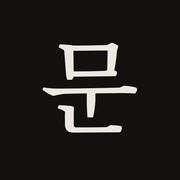
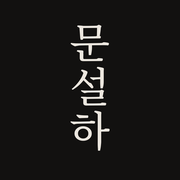
홈 화면 아이콘을 '문설하' 세로쓰기(시안 2)로, 프로필 사진 크게 보기에 '2026년 11월 촬영' 표시

Changed region(s): [[0.2222, 0.1389, 0.7778, 0.8333]]

diff --git a/index.html b/index.html
@@ -8,10 +8,10 @@
 <!-- 공개 범위를 정하기 전까지 검색엔진 노출 막음 (공개하려면 이 줄 삭제) -->
 <meta name="robots" content="noindex">
 <meta name="theme-color" content="#121110">
-<link rel="icon" href="assets/icon/icon-192.png" type="image/png" sizes="192x192">
-<link rel="icon" href="favicon.ico" sizes="16x16 32x32 48x48">
-<link rel="icon" href="assets/icon/icon-32.png" type="image/png" sizes="32x32">
-<link rel="apple-touch-icon" href="apple-touch-icon.png">
+<link rel="icon" href="assets/icon/icon-192.png?v=f70898a50d" type="image/png" sizes="192x192">
+<link rel="icon" href="favicon.ico?v=0f9e82bda3" sizes="16x16 32x32 48x48">
+<link rel="icon" href="assets/icon/icon-32.png?v=56a2a3adc0" type="image/png" sizes="32x32">
+<link rel="apple-touch-icon" href="apple-touch-icon.png?v=57f73b7a25">
 <meta name="apple-mobile-web-app-title" content="배우 문설하">
 <meta name="application-name" content="배우 문설하">
 <meta property="og:title" content="배우 문설하">
@@ -184,7 +184,7 @@
     </div>
   </div>
 </dialog>
-<script>window.LB_GROUPS = {"profile": [{"src": "assets/photo-743.jpg", "dl": "assets/dl/문설하_프로필_01_정면_검정셔츠.jpg", "alt": "정면, 검은 셔츠", "name": "문설하_프로필_01_정면_검정셔츠.jpg", "cap": ""}, {"src": "assets/photo-707.jpg", "dl": "assets/dl/문설하_프로필_02_측면_검정셔츠.jpg", "alt": "옆을 바라보는 얼굴, 검은 셔츠", "name": "문설하_프로필_02_측면_검정셔츠.jpg", "cap": ""}, {"src": "assets/photo-808.jpg", "dl": "assets/dl/문설하_프로필_03_정면_갈색니트.jpg", "alt": "정면, 갈색 니트", "name": "문설하_프로필_03_정면_갈색니트.jpg", "cap": ""}, {"src": "assets/photo-772.jpg", "dl": "assets/dl/문설하_프로필_04_측면_흰셔츠.jpg", "alt": "창가 자연광, 흰 셔츠", "name": "문설하_프로필_04_측면_흰셔츠.jpg", "cap": ""}, {"src": "assets/photo-947.jpg", "dl": "assets/dl/문설하_프로필_05_올려다봄_검정재킷.jpg", "alt": "위를 올려다보는 얼굴, 검은 재킷", "name": "문설하_프로필_05_올려다봄_검정재킷.jpg", "cap": ""}, {"src": "assets/photo-898.jpg", "dl": "assets/dl/문설하_프로필_06_전신_검정정장.jpg", "alt": "전신, 검은 정장", "name": "문설하_프로필_06_전신_검정정장.jpg", "cap": ""}], "field": [{"src": "assets/field/f2416.jpg", "dl": "assets/field/f2416.jpg", "alt": "우리 동네 사람들 촬영 현장, 2018", "name": "문설하_현장_2416.jpg", "cap": "우리 동네 사람들 촬영 현장 · 2018"}, {"src": "assets/field/f1394.jpg", "dl": "assets/field/f1394.jpg", "alt": "연극 무대, 2018", "name": "문설하_현장_1394.jpg", "cap": "연극 무대 · 2018"}, {"src": "assets/field/f1392.jpg", "dl": "assets/field/f1392.jpg", "alt": "연극 무대, 2018", "name": "문설하_현장_1392.jpg", "cap": "연극 무대 · 2018"}, {"src": "assets/field/f2487.jpg", "dl": "assets/field/f2487.jpg", "alt": "촬영 현장, 2018", "name": "문설하_현장_2487.jpg", "cap": "촬영 현장 · 2018"}, {"src": "assets/field/f1407.jpg", "dl": "assets/field/f1407.jpg", "alt": "연극 무대, 2018", "name": "문설하_현장_1407.jpg", "cap": "연극 무대 · 2018"}, {"src": "assets/field/f2421.jpg", "dl": "assets/field/f2421.jpg", "alt": "우리 동네 사람들 촬영 현장, 2018", "name": "문설하_현장_2421.jpg", "cap": "우리 동네 사람들 촬영 현장 · 2018"}, {"src": "assets/field/f1388.jpg", "dl": "assets/field/f1388.jpg", "alt": "분장실에서, 2018", "name": "문설하_현장_1388.jpg", "cap": "분장실에서 · 2018"}, {"src": "assets/field/f0282.jpg", "dl": "assets/field/f0282.jpg", "alt": "연극 무대", "name": "문설하_현장_0282.jpg", "cap": "연극 무대"}, {"src": "assets/field/f0302.jpg", "dl": "assets/field/f0302.jpg", "alt": "연극 무대", "name": "문설하_현장_0302.jpg", "cap": "연극 무대"}]};</script>
+<script>window.LB_GROUPS = {"profile": [{"src": "assets/photo-743.jpg", "dl": "assets/dl/문설하_프로필_01_정면_검정셔츠.jpg", "alt": "정면, 검은 셔츠", "name": "문설하_프로필_01_정면_검정셔츠.jpg", "cap": "2026년 11월 촬영"}, {"src": "assets/photo-707.jpg", "dl": "assets/dl/문설하_프로필_02_측면_검정셔츠.jpg", "alt": "옆을 바라보는 얼굴, 검은 셔츠", "name": "문설하_프로필_02_측면_검정셔츠.jpg", "cap": "2026년 11월 촬영"}, {"src": "assets/photo-808.jpg", "dl": "assets/dl/문설하_프로필_03_정면_갈색니트.jpg", "alt": "정면, 갈색 니트", "name": "문설하_프로필_03_정면_갈색니트.jpg", "cap": "2026년 11월 촬영"}, {"src": "assets/photo-772.jpg", "dl": "assets/dl/문설하_프로필_04_측면_흰셔츠.jpg", "alt": "창가 자연광, 흰 셔츠", "name": "문설하_프로필_04_측면_흰셔츠.jpg", "cap": "2026년 11월 촬영"}, {"src": "assets/photo-947.jpg", "dl": "assets/dl/문설하_프로필_05_올려다봄_검정재킷.jpg", "alt": "위를 올려다보는 얼굴, 검은 재킷", "name": "문설하_프로필_05_올려다봄_검정재킷.jpg", "cap": "2026년 11월 촬영"}, {"src": "assets/photo-898.jpg", "dl": "assets/dl/문설하_프로필_06_전신_검정정장.jpg", "alt": "전신, 검은 정장", "name": "문설하_프로필_06_전신_검정정장.jpg", "cap": "2026년 11월 촬영"}], "field": [{"src": "assets/field/f2416.jpg", "dl": "assets/field/f2416.jpg", "alt": "우리 동네 사람들 촬영 현장, 2018", "name": "문설하_현장_2416.jpg", "cap": "우리 동네 사람들 촬영 현장 · 2018"}, {"src": "assets/field/f1394.jpg", "dl": "assets/field/f1394.jpg", "alt": "연극 무대, 2018", "name": "문설하_현장_1394.jpg", "cap": "연극 무대 · 2018"}, {"src": "assets/field/f1392.jpg", "dl": "assets/field/f1392.jpg", "alt": "연극 무대, 2018", "name": "문설하_현장_1392.jpg", "cap": "연극 무대 · 2018"}, {"src": "assets/field/f2487.jpg", "dl": "assets/field/f2487.jpg", "alt": "촬영 현장, 2018", "name": "문설하_현장_2487.jpg", "cap": "촬영 현장 · 2018"}, {"src": "assets/field/f1407.jpg", "dl": "assets/field/f1407.jpg", "alt": "연극 무대, 2018", "name": "문설하_현장_1407.jpg", "cap": "연극 무대 · 2018"}, {"src": "assets/field/f2421.jpg", "dl": "assets/field/f2421.jpg", "alt": "우리 동네 사람들 촬영 현장, 2018", "name": "문설하_현장_2421.jpg", "cap": "우리 동네 사람들 촬영 현장 · 2018"}, {"src": "assets/field/f1388.jpg", "dl": "assets/field/f1388.jpg", "alt": "분장실에서, 2018", "name": "문설하_현장_1388.jpg", "cap": "분장실에서 · 2018"}, {"src": "assets/field/f0282.jpg", "dl": "assets/field/f0282.jpg", "alt": "연극 무대", "name": "문설하_현장_0282.jpg", "cap": "연극 무대"}, {"src": "assets/field/f0302.jpg", "dl": "assets/field/f0302.jpg", "alt": "연극 무대", "name": "문설하_현장_0302.jpg", "cap": "연극 무대"}]};</script>
 <footer class="foot"><div class="wrap">
   <span>© 2026 문설하</span>
   <span><a href="tel:01085916571">010-8591-6571</a> · <a href="mailto:heyjoon99@naver.com">heyjoon99@naver.com</a></span>

diff --git a/clip/uridongne.html b/clip/uridongne.html
@@ -8,10 +8,10 @@
 <!-- 공개 범위를 정하기 전까지 검색엔진 노출 막음 (공개하려면 이 줄 삭제) -->
 <meta name="robots" content="noindex">
 <meta name="theme-color" content="#121110">
-<link rel="icon" href="../assets/icon/icon-192.png" type="image/png" sizes="192x192">
-<link rel="icon" href="../favicon.ico" sizes="16x16 32x32 48x48">
-<link rel="icon" href="../assets/icon/icon-32.png" type="image/png" sizes="32x32">
-<link rel="apple-touch-icon" href="../apple-touch-icon.png">
+<link rel="icon" href="../assets/icon/icon-192.png?v=f70898a50d" type="image/png" sizes="192x192">
+<link rel="icon" href="../favicon.ico?v=0f9e82bda3" sizes="16x16 32x32 48x48">
+<link rel="icon" href="../assets/icon/icon-32.png?v=56a2a3adc0" type="image/png" sizes="32x32">
+<link rel="apple-touch-icon" href="../apple-touch-icon.png?v=57f73b7a25">
 <meta name="apple-mobile-web-app-title" content="배우 문설하">
 <meta name="application-name" content="배우 문설하">
 <meta property="og:title" content="문설하 · 우리 동네 사람들">

diff --git a/clip/yangcheon.html b/clip/yangcheon.html
@@ -8,10 +8,10 @@
 <!-- 공개 범위를 정하기 전까지 검색엔진 노출 막음 (공개하려면 이 줄 삭제) -->
 <meta name="robots" content="noindex">
 <meta name="theme-color" content="#121110">
-<link rel="icon" href="../assets/icon/icon-192.png" type="image/png" sizes="192x192">
-<link rel="icon" href="../favicon.ico" sizes="16x16 32x32 48x48">
-<link rel="icon" href="../assets/icon/icon-32.png" type="image/png" sizes="32x32">
-<link rel="apple-touch-icon" href="../apple-touch-icon.png">
+<link rel="icon" href="../assets/icon/icon-192.png?v=f70898a50d" type="image/png" sizes="192x192">
+<link rel="icon" href="../favicon.ico?v=0f9e82bda3" sizes="16x16 32x32 48x48">
+<link rel="icon" href="../assets/icon/icon-32.png?v=56a2a3adc0" type="image/png" sizes="32x32">
+<link rel="apple-touch-icon" href="../apple-touch-icon.png?v=57f73b7a25">
 <meta name="apple-mobile-web-app-title" content="배우 문설하">
 <meta name="application-name" content="배우 문설하">
 <meta property="og:title" content="문설하 · 양천구 소개 영상">

diff --git a/v/uridongne.html b/v/uridongne.html
@@ -8,10 +8,10 @@
 <!-- 공개 범위를 정하기 전까지 검색엔진 노출 막음 (공개하려면 이 줄 삭제) -->
 <meta name="robots" content="noindex">
 <meta name="theme-color" content="#121110">
-<link rel="icon" href="../assets/icon/icon-192.png" type="image/png" sizes="192x192">
-<link rel="icon" href="../favicon.ico" sizes="16x16 32x32 48x48">
-<link rel="icon" href="../assets/icon/icon-32.png" type="image/png" sizes="32x32">
-<link rel="apple-touch-icon" href="../apple-touch-icon.png">
+<link rel="icon" href="../assets/icon/icon-192.png?v=f70898a50d" type="image/png" sizes="192x192">
+<link rel="icon" href="../favicon.ico?v=0f9e82bda3" sizes="16x16 32x32 48x48">
+<link rel="icon" href="../assets/icon/icon-32.png?v=56a2a3adc0" type="image/png" sizes="32x32">
+<link rel="apple-touch-icon" href="../apple-touch-icon.png?v=57f73b7a25">
 <meta name="apple-mobile-web-app-title" content="배우 문설하">
 <meta name="application-name" content="배우 문설하">
 <meta property="og:title" content="문설하 · 우리 동네 사람들">

diff --git a/v/yangcheon.html b/v/yangcheon.html
@@ -8,10 +8,10 @@
 <!-- 공개 범위를 정하기 전까지 검색엔진 노출 막음 (공개하려면 이 줄 삭제) -->
 <meta name="robots" content="noindex">
 <meta name="theme-color" content="#121110">
-<link rel="icon" href="../assets/icon/icon-192.png" type="image/png" sizes="192x192">
-<link rel="icon" href="../favicon.ico" sizes="16x16 32x32 48x48">
-<link rel="icon" href="../assets/icon/icon-32.png" type="image/png" sizes="32x32">
-<link rel="apple-touch-icon" href="../apple-touch-icon.png">
+<link rel="icon" href="../assets/icon/icon-192.png?v=f70898a50d" type="image/png" sizes="192x192">
+<link rel="icon" href="../favicon.ico?v=0f9e82bda3" sizes="16x16 32x32 48x48">
+<link rel="icon" href="../assets/icon/icon-32.png?v=56a2a3adc0" type="image/png" sizes="32x32">
+<link rel="apple-touch-icon" href="../apple-touch-icon.png?v=57f73b7a25">
 <meta name="apple-mobile-web-app-title" content="배우 문설하">
 <meta name="application-name" content="배우 문설하">
 <meta property="og:title" content="문설하 · 양천구 소개 영상">

diff --git a/clip/curtain.html b/clip/curtain.html
@@ -8,10 +8,10 @@
 <!-- 공개 범위를 정하기 전까지 검색엔진 노출 막음 (공개하려면 이 줄 삭제) -->
 <meta name="robots" content="noindex">
 <meta name="theme-color" content="#121110">
-<link rel="icon" href="../assets/icon/icon-192.png" type="image/png" sizes="192x192">
-<link rel="icon" href="../favicon.ico" sizes="16x16 32x32 48x48">
-<link rel="icon" href="../assets/icon/icon-32.png" type="image/png" sizes="32x32">
-<link rel="apple-touch-icon" href="../apple-touch-icon.png">
+<link rel="icon" href="../assets/icon/icon-192.png?v=f70898a50d" type="image/png" sizes="192x192">
+<link rel="icon" href="../favicon.ico?v=0f9e82bda3" sizes="16x16 32x32 48x48">
+<link rel="icon" href="../assets/icon/icon-32.png?v=56a2a3adc0" type="image/png" sizes="32x32">
+<link rel="apple-touch-icon" href="../apple-touch-icon.png?v=57f73b7a25">
 <meta name="apple-mobile-web-app-title" content="배우 문설하">
 <meta name="application-name" content="배우 문설하">
 <meta property="og:title" content="문설하 · 연극 커튼콜">

diff --git a/clip/monologue.html b/clip/monologue.html
@@ -8,10 +8,10 @@
 <!-- 공개 범위를 정하기 전까지 검색엔진 노출 막음 (공개하려면 이 줄 삭제) -->
 <meta name="robots" content="noindex">
 <meta name="theme-color" content="#121110">
-<link rel="icon" href="../assets/icon/icon-192.png" type="image/png" sizes="192x192">
-<link rel="icon" href="../favicon.ico" sizes="16x16 32x32 48x48">
-<link rel="icon" href="../assets/icon/icon-32.png" type="image/png" sizes="32x32">
-<link rel="apple-touch-icon" href="../apple-touch-icon.png">
+<link rel="icon" href="../assets/icon/icon-192.png?v=f70898a50d" type="image/png" sizes="192x192">
+<link rel="icon" href="../favicon.ico?v=0f9e82bda3" sizes="16x16 32x32 48x48">
+<link rel="icon" href="../assets/icon/icon-32.png?v=56a2a3adc0" type="image/png" sizes="32x32">
+<link rel="apple-touch-icon" href="../apple-touch-icon.png?v=57f73b7a25">
 <meta name="apple-mobile-web-app-title" content="배우 문설하">
 <meta name="application-name" content="배우 문설하">
 <meta property="og:title" content="문설하 · 프로필 독백">

diff --git a/v/curtain.html b/v/curtain.html
@@ -8,10 +8,10 @@
 <!-- 공개 범위를 정하기 전까지 검색엔진 노출 막음 (공개하려면 이 줄 삭제) -->
 <meta name="robots" content="noindex">
 <meta name="theme-color" content="#121110">
-<link rel="icon" href="../assets/icon/icon-192.png" type="image/png" sizes="192x192">
-<link rel="icon" href="../favicon.ico" sizes="16x16 32x32 48x48">
-<link rel="icon" href="../assets/icon/icon-32.png" type="image/png" sizes="32x32">
-<link rel="apple-touch-icon" href="../apple-touch-icon.png">
+<link rel="icon" href="../assets/icon/icon-192.png?v=f70898a50d" type="image/png" sizes="192x192">
+<link rel="icon" href="../favicon.ico?v=0f9e82bda3" sizes="16x16 32x32 48x48">
+<link rel="icon" href="../assets/icon/icon-32.png?v=56a2a3adc0" type="image/png" sizes="32x32">
+<link rel="apple-touch-icon" href="../apple-touch-icon.png?v=57f73b7a25">
 <meta name="apple-mobile-web-app-title" content="배우 문설하">
 <meta name="application-name" content="배우 문설하">
 <meta property="og:title" content="문설하 · 연극 커튼콜">

diff --git a/v/monologue.html b/v/monologue.html
@@ -8,10 +8,10 @@
 <!-- 공개 범위를 정하기 전까지 검색엔진 노출 막음 (공개하려면 이 줄 삭제) -->
 <meta name="robots" content="noindex">
 <meta name="theme-color" content="#121110">
-<link rel="icon" href="../assets/icon/icon-192.png" type="image/png" sizes="192x192">
-<link rel="icon" href="../favicon.ico" sizes="16x16 32x32 48x48">
-<link rel="icon" href="../assets/icon/icon-32.png" type="image/png" sizes="32x32">
-<link rel="apple-touch-icon" href="../apple-touch-icon.png">
+<link rel="icon" href="../assets/icon/icon-192.png?v=f70898a50d" type="image/png" sizes="192x192">
+<link rel="icon" href="../favicon.ico?v=0f9e82bda3" sizes="16x16 32x32 48x48">
+<link rel="icon" href="../assets/icon/icon-32.png?v=56a2a3adc0" type="image/png" sizes="32x32">
+<link rel="apple-touch-icon" href="../apple-touch-icon.png?v=57f73b7a25">
 <meta name="apple-mobile-web-app-title" content="배우 문설하">
 <meta name="application-name" content="배우 문설하">
 <meta property="og:title" content="문설하 · 프로필 독백">

diff --git a/clip/daebudo.html b/clip/daebudo.html
@@ -8,10 +8,10 @@
 <!-- 공개 범위를 정하기 전까지 검색엔진 노출 막음 (공개하려면 이 줄 삭제) -->
 <meta name="robots" content="noindex">
 <meta name="theme-color" content="#121110">
-<link rel="icon" href="../assets/icon/icon-192.png" type="image/png" sizes="192x192">
-<link rel="icon" href="../favicon.ico" sizes="16x16 32x32 48x48">
-<link rel="icon" href="../assets/icon/icon-32.png" type="image/png" sizes="32x32">
-<link rel="apple-touch-icon" href="../apple-touch-icon.png">
+<link rel="icon" href="../assets/icon/icon-192.png?v=f70898a50d" type="image/png" sizes="192x192">
+<link rel="icon" href="../favicon.ico?v=0f9e82bda3" sizes="16x16 32x32 48x48">
+<link rel="icon" href="../assets/icon/icon-32.png?v=56a2a3adc0" type="image/png" sizes="32x32">
+<link rel="apple-touch-icon" href="../apple-touch-icon.png?v=57f73b7a25">
 <meta name="apple-mobile-web-app-title" content="배우 문설하">
 <meta name="application-name" content="배우 문설하">
 <meta property="og:title" content="문설하 · 대부도에서">

diff --git a/v/daebudo.html b/v/daebudo.html
@@ -8,10 +8,10 @@
 <!-- 공개 범위를 정하기 전까지 검색엔진 노출 막음 (공개하려면 이 줄 삭제) -->
 <meta name="robots" content="noindex">
 <meta name="theme-color" content="#121110">
-<link rel="icon" href="../assets/icon/icon-192.png" type="image/png" sizes="192x192">
-<link rel="icon" href="../favicon.ico" sizes="16x16 32x32 48x48">
-<link rel="icon" href="../assets/icon/icon-32.png" type="image/png" sizes="32x32">
-<link rel="apple-touch-icon" href="../apple-touch-icon.png">
+<link rel="icon" href="../assets/icon/icon-192.png?v=f70898a50d" type="image/png" sizes="192x192">
+<link rel="icon" href="../favicon.ico?v=0f9e82bda3" sizes="16x16 32x32 48x48">
+<link rel="icon" href="../assets/icon/icon-32.png?v=56a2a3adc0" type="image/png" sizes="32x32">
+<link rel="apple-touch-icon" href="../apple-touch-icon.png?v=57f73b7a25">
 <meta name="apple-mobile-web-app-title" content="배우 문설하">
 <meta name="application-name" content="배우 문설하">
 <meta property="og:title" content="문설하 · 대부도에서">

diff --git a/clip/stage.html b/clip/stage.html
@@ -8,10 +8,10 @@
 <!-- 공개 범위를 정하기 전까지 검색엔진 노출 막음 (공개하려면 이 줄 삭제) -->
 <meta name="robots" content="noindex">
 <meta name="theme-color" content="#121110">
-<link rel="icon" href="../assets/icon/icon-192.png" type="image/png" sizes="192x192">
-<link rel="icon" href="../favicon.ico" sizes="16x16 32x32 48x48">
-<link rel="icon" href="../assets/icon/icon-32.png" type="image/png" sizes="32x32">
-<link rel="apple-touch-icon" href="../apple-touch-icon.png">
+<link rel="icon" href="../assets/icon/icon-192.png?v=f70898a50d" type="image/png" sizes="192x192">
+<link rel="icon" href="../favicon.ico?v=0f9e82bda3" sizes="16x16 32x32 48x48">
+<link rel="icon" href="../assets/icon/icon-32.png?v=56a2a3adc0" type="image/png" sizes="32x32">
+<link rel="apple-touch-icon" href="../apple-touch-icon.png?v=57f73b7a25">
 <meta name="apple-mobile-web-app-title" content="배우 문설하">
 <meta name="application-name" content="배우 문설하">
 <meta property="og:title" content="문설하 · 연극 무대">
